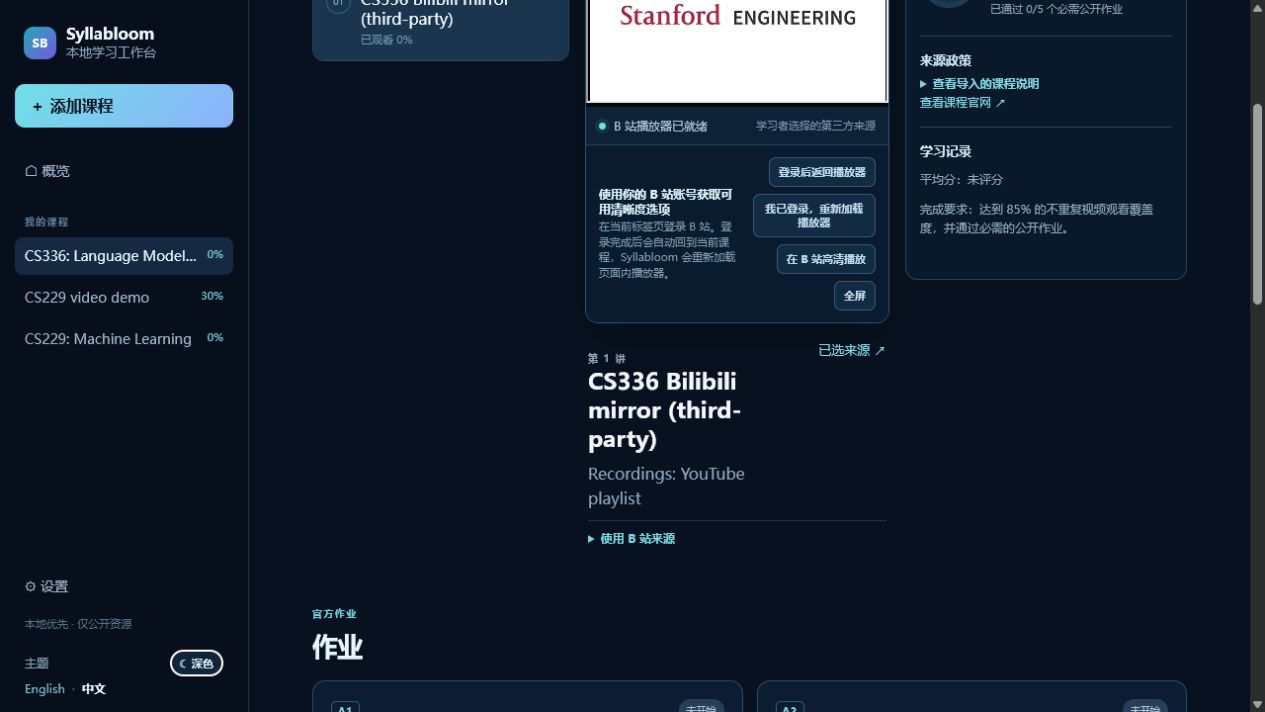
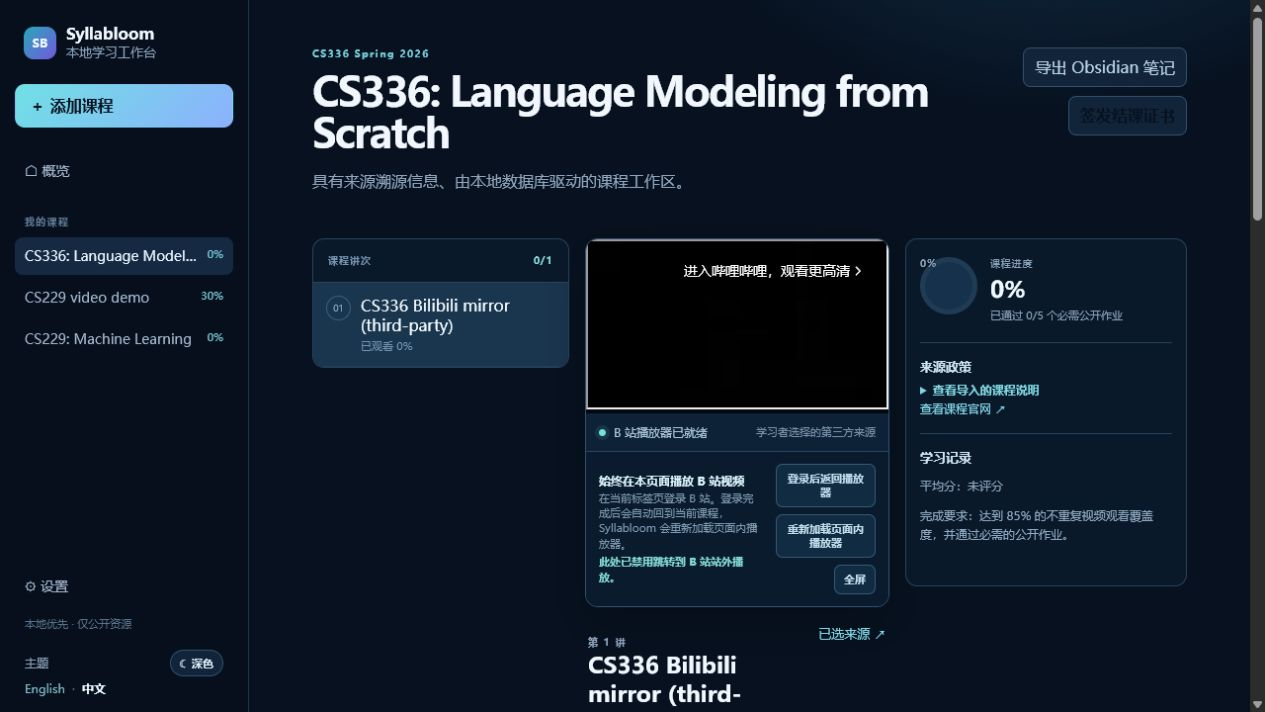
fix: keep Bilibili playback inside learning page

diff --git a/frontend/src/styles.css b/frontend/src/styles.css
@@ -85,7 +85,7 @@ a:hover { text-decoration: underline; }
 .lecture-context { display: flex; justify-content: space-between; gap: 20px; padding: 19px 3px 10px; }.lecture-context h2 { margin: 0; font-size: 23px; color: #eff8ff; }.lecture-context p { margin: 9px 0 0; color: #8da5bd; line-height: 1.55; }.lecture-context a { white-space: nowrap; font-size: 13px; }.player-source-note { margin-left: auto; color: #7993aa; font-size: 11px; line-height: 1.35; }.source-selector { margin: 0 3px 12px; padding: 10px 0 0; border-top: 1px solid rgba(49, 81, 111, .55); }.source-selector summary { cursor: pointer; color: #78d6df; font-size: 12px; font-weight: 700; }.source-selector p { margin: 8px 0; color: #8da5bd; font-size: 11px; line-height: 1.45; }.source-selector form { display: flex; gap: 8px; }.source-selector input { min-width: 0; flex: 1; border: 1px solid #365a75; border-radius: 8px; padding: 8px 10px; background: #081727; color: #e6f5ff; font-size: 12px; }.source-selector button { white-space: nowrap; padding: 8px 10px; font-size: 12px; }
 .course-inspector { padding: 14px; }.progress-card { display: flex; gap: 13px; padding: 4px 0 18px; border-bottom: 1px solid #28435d; }.progress-card span, .progress-card small { display: block; color: #8aa1b8; font-size: 10px; letter-spacing: .08em; }.progress-card strong { display: block; color: #eefaff; font-size: 23px; margin: 5px 0; }.progress-card small { font-size: 11px; letter-spacing: 0; line-height: 1.4; }.inspector-block { padding: 16px 0; border-bottom: 1px solid #28435d; }.inspector-block:last-child { border-bottom: 0; }.inspector-block h3 { margin: 0 0 8px; color: #cde4f3; font-size: 13px; }.inspector-block p { color: #8fa9c0; font-size: 12px; line-height: 1.55; }.inspector-block a { font-size: 12px; }
 .resource-section { margin-top: 50px; }.assignment-grid { display: grid; grid-template-columns: repeat(auto-fill, minmax(310px, 1fr)); gap: 14px; margin-top: 18px; }.assignment-card { border: 1px solid #2c4a66; border-radius: 13px; padding: 18px; background: rgba(15, 35, 57, .68); }.assignment-heading h4 { margin: 9px 0 0; color: #edf8ff; font-size: 17px; }.assignment-card > p { min-height: 37px; color: #95abc2; font-size: 13px; line-height: 1.5; }.assignment-status { border-radius: 999px; padding: 5px 8px; background: #293f57; color: #abc2d7; font-size: 10px; text-transform: capitalize; }.assignment-status.passed { background: #164b4a; color: #99f0d8; }.assignment-status.needs_revision { background: #573d34; color: #ffbf9a; }.button-row { display: flex; gap: 7px; flex-wrap: wrap; }.acknowledgement { display: flex; gap: 7px; margin: 15px 0 11px; color: #9bb2c8; font-size: 11px; line-height: 1.45; }.acknowledgement input { accent-color: #72dbe2; margin-top: 2px; }.compact { padding: 9px 11px; font-size: 13px; }.text-button { display: block; border: 0; background: transparent; padding-left: 0; margin-top: 8px; color: #7fd4df; font-size: 12px; }.grading-history { margin-top: 10px; padding-top: 8px; border-top: 1px solid #294863; color: #a2bdd0; font-size: 12px; }.protected { color: #ffc49e !important; }
-.bilibili-controls { display: flex; align-items: center; justify-content: space-between; gap: 14px; padding: 12px 13px; border-top: 1px solid #28435d; background: #0a1b2d; }.bilibili-controls > div:first-child { display: grid; gap: 3px; }.bilibili-controls strong { color: #d9f3fb; font-size: 12px; }.bilibili-controls span { color: #7e9ab1; font-size: 11px; line-height: 1.4; }.bilibili-control-actions { display: flex; flex-wrap: wrap; justify-content: flex-end; gap: 7px; }.bilibili-control-actions button { border: 1px solid #365a75; border-radius: 7px; padding: 7px 9px; background: #112b43; color: #c1deed; font-size: 11px; font-weight: 700; }.bilibili-control-actions button:hover { background: #1a3c58; }.bilibili-shell:fullscreen { display: grid; grid-template-rows: minmax(0, 1fr) auto auto; width: 100vw; height: 100vh; border: 0; border-radius: 0; background: #02070c; }.bilibili-shell:fullscreen .player-frame { height: 100%; max-height: none; aspect-ratio: auto; }
+.bilibili-controls { display: flex; align-items: center; justify-content: space-between; gap: 14px; padding: 12px 13px; border-top: 1px solid #28435d; background: #0a1b2d; }.bilibili-controls > div:first-child { display: grid; gap: 3px; }.bilibili-controls strong { color: #d9f3fb; font-size: 12px; }.bilibili-controls span { color: #7e9ab1; font-size: 11px; line-height: 1.4; }.bilibili-in-page-status { color: #84dbd5 !important; font-weight: 700; }.bilibili-control-actions { display: flex; flex-wrap: wrap; justify-content: flex-end; gap: 7px; }.bilibili-control-actions button { border: 1px solid #365a75; border-radius: 7px; padding: 7px 9px; background: #112b43; color: #c1deed; font-size: 11px; font-weight: 700; }.bilibili-control-actions button:hover { background: #1a3c58; }.bilibili-shell:fullscreen { display: grid; grid-template-rows: minmax(0, 1fr) auto auto; width: 100vw; height: 100vh; border: 0; border-radius: 0; background: #02070c; }.bilibili-shell:fullscreen .player-frame { height: 100%; max-height: none; aspect-ratio: auto; }
 
 .assignment-workspace-backdrop { position: fixed; z-index: 20; inset: 0; overflow: auto; padding: clamp(14px, 3vw, 42px); background: rgba(0, 8, 18, .8); backdrop-filter: blur(8px); }.assignment-workspace { width: min(1420px, 100%); min-height: calc(100vh - 84px); margin: auto; border: 1px solid #385875; border-radius: 18px; overflow: hidden; background: #0b1d30; box-shadow: 0 35px 100px rgba(0, 0, 0, .55); }.loading-workspace { min-height: 260px; display: grid; place-content: center; gap: 15px; color: #aac1d4; text-align: center; }.assignment-workspace-header { position: relative; display: flex; justify-content: space-between; gap: 20px; padding: 28px 34px 23px; border-bottom: 1px solid #294762; background: radial-gradient(circle at 92% -50%, #1a5472, transparent 29rem), #102a42; }.assignment-workspace-header h1 { margin: 0; color: #f0f9ff; font-size: clamp(25px, 3vw, 39px); letter-spacing: -.04em; }.workspace-title { display: flex; align-items: center; gap: 10px; }.assignment-workspace-header > div > p:last-child { margin: 10px 0 0; color: #86a4bd; font-size: 12px; }.workspace-close { position: static; flex: 0 0 auto; border: 1px solid #41647f; border-radius: 9px; width: 35px; height: 35px; background: rgba(8, 24, 40, .7); color: #c5deed; font-size: 25px; line-height: 1; }.workspace-error { margin: 18px 32px 0; }.assignment-workspace-grid { display: grid; grid-template-columns: minmax(250px, .72fr) minmax(430px, 1.28fr); min-height: 460px; }.assignment-brief { padding: 28px 30px; border-right: 1px solid #294762; background: rgba(7, 20, 33, .5); }.brief-section { padding: 0 0 23px; margin: 0 0 21px; border-bottom: 1px solid rgba(46, 75, 99, .72); }.brief-section:last-child { margin-bottom: 0; border-bottom: 0; }.brief-section h2, .brief-section h3, .answer-editor h2, .grading-sidebar h2 { margin: 0; color: #e5f5fc; letter-spacing: -.025em; }.brief-section h2 { font-size: 21px; }.brief-section h3 { font-size: 14px; }.assignment-description, .brief-section > p { color: #9db4c8; font-size: 13px; line-height: 1.65; white-space: pre-wrap; }.source-link { display: inline-block; margin: 11px 12px 0 0; font-size: 12px; font-weight: 700; }.assignment-resources { display: grid; gap: 8px; padding: 0; margin: 13px 0 0; list-style: none; }.assignment-resources li { display: flex; flex-wrap: wrap; align-items: baseline; justify-content: space-between; gap: 7px; padding: 10px; border: 1px solid #31516e; border-radius: 8px; background: #0d263d; }.assignment-resources a { min-width: 0; overflow: hidden; color: #d6f5fb; font-size: 12px; text-overflow: ellipsis; white-space: nowrap; }.assignment-resources span { color: #7ba6b6; font-size: 10px; }.policy-copy p { max-height: 180px; overflow: auto; }
 .answer-editor { display: flex; flex-direction: column; min-width: 0; padding: 28px 32px; background: #0e263c; }.answer-editor-heading { display: flex; justify-content: space-between; gap: 16px; align-items: flex-start; margin-bottom: 17px; }.answer-editor h2 { font-size: 23px; }.draft-state { flex: 0 0 auto; border-radius: 999px; padding: 5px 8px; background: #143f42; color: #91ead9; font-size: 10px; font-weight: 800; }.draft-state.changed { background: #523c30; color: #ffce9f; }.answer-editor textarea { flex: 1; min-height: 310px; width: 100%; resize: vertical; border: 1px solid #365b76; border-radius: 11px; padding: 17px; background: #071727; color: #e5f5fc; font-family: "SFMono-Regular", Consolas, "Liberation Mono", monospace; font-size: 13px; line-height: 1.7; outline: none; }.answer-editor textarea:focus { border-color: #70d5dc; box-shadow: 0 0 0 3px rgba(112, 213, 220, .12); }.answer-actions { display: flex; justify-content: flex-end; align-items: center; gap: 13px; margin-top: 12px; }.answer-actions .text-button { margin: 0; }.answer-note { margin: 12px 0 0; color: #7694aa; font-size: 11px; line-height: 1.45; }
@@ -179,6 +179,7 @@ a:hover { text-decoration: underline; }
 :root[data-theme="light"] .bilibili-controls { border-color: #c8d9e4; background: #edf5f9; }
 :root[data-theme="light"] .bilibili-controls strong { color: #294c64; }
 :root[data-theme="light"] .bilibili-controls span { color: #587489; }
+:root[data-theme="light"] .bilibili-in-page-status { color: #087779 !important; }
 :root[data-theme="light"] .bilibili-control-actions button { border-color: #b8cfdf; background: #f7fbfd; color: #2c5a73; }
 :root[data-theme="light"] .bilibili-control-actions button:hover { background: #e4f1f7; }
 :root[data-theme="light"] .assignment-workspace-backdrop { background: rgba(22, 45, 63, .46); }

diff --git a/frontend/src/lib/i18n.ts b/frontend/src/lib/i18n.ts
@@ -216,7 +216,6 @@ const messages: Record<Locale, Record<string, string>> = {
     "player.bilibiliLoginRefreshHint": "Finish sign-in in the Bilibili tab, then use Refresh player. Syllabloom never receives your Bilibili password or cookies.",
     "player.bilibiliLogin": "Sign in to Bilibili",
     "player.bilibiliRefresh": "Refresh player",
-    "player.bilibiliOpen": "Open HD on Bilibili",
     "player.fullscreen": "Full screen",
     "player.exitFullscreen": "Exit full screen",
   },
@@ -438,24 +437,27 @@ Object.assign(messages.zh, {
   "player.bilibiliLoginRefreshHint": "请在 B 站标签页完成登录后点击“刷新播放器”。Syllabloom 不会接收你的密码或 Cookie。",
   "player.bilibiliLogin": "登录 B 站",
   "player.bilibiliRefresh": "刷新播放器",
-  "player.bilibiliOpen": "在 B 站高清播放",
   "player.fullscreen": "全屏",
   "player.exitFullscreen": "退出全屏",
 });
 
 Object.assign(messages.en, {
-  "player.bilibiliHdHint": "Sign in with Bilibili in this tab. When sign-in finishes, Bilibili returns to this exact course and Syllabloom reloads the in-page player.",
+  "player.bilibiliHdTitle": "Keep Bilibili playback in this page",
+  "player.bilibiliHdHint": "Sign in with Bilibili in this tab. When sign-in finishes, Bilibili returns to this exact course and Syllabloom reloads the embedded player.",
   "player.bilibiliReturnDetected": "Bilibili sign-in return detected — the in-page player has been reloaded.",
   "player.bilibiliLogin": "Sign in and return to player",
-  "player.bilibiliRefresh": "I have signed in — reload player",
+  "player.bilibiliRefresh": "Reload in-page player",
+  "player.bilibiliInPageOnly": "External Bilibili playback is disabled here.",
   "player.fullscreenUnavailable": "Full screen was blocked by this browser",
 });
 
 Object.assign(messages.zh, {
+  "player.bilibiliHdTitle": "始终在本页面播放 B 站视频",
   "player.bilibiliHdHint": "在当前标签页登录 B 站。登录完成后会自动回到当前课程，Syllabloom 会重新加载页面内播放器。",
   "player.bilibiliReturnDetected": "已检测到 B 站登录回跳，页面内播放器已重新加载。",
   "player.bilibiliLogin": "登录后返回播放器",
-  "player.bilibiliRefresh": "我已登录，重新加载播放器",
+  "player.bilibiliRefresh": "重新加载页面内播放器",
+  "player.bilibiliInPageOnly": "此处已禁用跳转到 B 站站外播放。",
   "player.fullscreenUnavailable": "当前浏览器阻止了全屏",
 });
 

diff --git a/frontend/src/components/BilibiliPlayer.tsx b/frontend/src/components/BilibiliPlayer.tsx
@@ -10,7 +10,6 @@ export function BilibiliPlayer({ lecture, locale, courseId }: { lecture: Lecture
   const [returnedFromLogin, setReturnedFromLogin] = useState(false);
   const shellRef = useRef<HTMLElement>(null);
   const embedUrl = lecture.video?.embed_url;
-  const sourceUrl = lecture.source_url || `https://www.bilibili.com/video/${lecture.video?.external_id || ""}/`;
   const playerId = `bilibili-player-${lecture.id}`;
 
   const refreshPlayer = useCallback(() => {
@@ -84,6 +83,7 @@ export function BilibiliPlayer({ lecture, locale, courseId }: { lecture: Lecture
             title={lecture.title}
             allow="autoplay; fullscreen; picture-in-picture"
             allowFullScreen
+            sandbox="allow-scripts allow-same-origin allow-forms allow-presentation"
             referrerPolicy="strict-origin-when-cross-origin"
             onLoad={() => setFailed(false)}
             onError={() => setFailed(true)}
@@ -103,11 +103,11 @@ export function BilibiliPlayer({ lecture, locale, courseId }: { lecture: Lecture
         <div>
           <strong>{translate(locale, "player.bilibiliHdTitle")}</strong>
           <span aria-live="polite">{translate(locale, returnedFromLogin ? "player.bilibiliReturnDetected" : "player.bilibiliHdHint")}</span>
+          <span className="bilibili-in-page-status">{translate(locale, "player.bilibiliInPageOnly")}</span>
         </div>
         <div className="bilibili-control-actions">
           <button type="button" onClick={openLogin}>{translate(locale, "player.bilibiliLogin")}</button>
           <button type="button" onClick={refreshPlayer}>{translate(locale, "player.bilibiliRefresh")}</button>
-          <button type="button" onClick={() => window.open(sourceUrl, "_blank", "noopener,noreferrer")}>{translate(locale, "player.bilibiliOpen")}</button>
           <button type="button" onClick={() => void toggleFullscreen()}>{translate(locale, fullscreen ? "player.exitFullscreen" : "player.fullscreen")}</button>
         </div>
       </div>

diff --git a/docs/USER_GUIDE.zh-CN.md b/docs/USER_GUIDE.zh-CN.md
@@ -26,11 +26,11 @@ Syllabloom 的目标是让几个月后的学习记录仍然可理解：来源链
 
 ## 使用 B 站来源与自己的账号
 
-> **登录回跳：** 点击“登录后返回播放器”会在当前标签页打开 B 站官方登录页。登录成功后会自动回到同一课程和讲次，清除一次性回跳参数，并重新加载页面内播放器；无需再手动切换标签页。Syllabloom 不会读取密码、二维码或 Cookie。“我已登录，重新加载播放器”仅作为手动回退。
+> **登录回跳：** 点击“登录后返回播放器”会在当前标签页打开 B 站官方登录页。登录成功后会自动回到同一课程和讲次，清除一次性回跳参数，并重新加载页面内播放器；无需再手动切换标签页。Syllabloom 不会读取密码、二维码或 Cookie。“重新加载页面内播放器”仅作为手动回退。
 
 在某一讲下展开“使用 B 站来源”，粘贴直接包含 `BV...` 的视频链接。它会被清楚标记为学习者选择的第三方来源，不会被伪装成官方课程材料。
 
-嵌入播放器会请求 B 站的高质量模式，但最终可选清晰度仍由 B 站、视频本身、账号权限、网络状况和浏览器隐私设置决定。点击“登录 B 站”会打开 B 站自己的登录页面；Syllabloom 不会收到密码、二维码或 Cookie。登录完成后回到课程页点击“刷新播放器”，B 站可能会在 iframe 中提供已登录账号可用的选项。若浏览器阻止第三方 Cookie，或希望使用 B 站完整的一方播放器，请点击“在 B 站高清播放”。“全屏”会在不离开课程工作区的情况下放大播放器。
+嵌入播放器会请求 B 站的高质量模式，但最终可选清晰度仍由 B 站、视频本身、账号权限、网络状况和浏览器隐私设置决定。点击“登录后返回播放器”会在当前标签页打开 B 站自己的登录页面；Syllabloom 不会收到密码、二维码或 Cookie。登录成功后会回到同一课程并自动重载 iframe。“重新加载页面内播放器”只会重新加载官方 iframe；应用刻意不再提供跳到 B 站完整站外播放器的按钮。iframe 不包含弹窗或外层导航权限，因此其中的操作不能把 Syllabloom 外层页面带离课程工作区。若 B 站播放器本身针对嵌入播放显示“进入哔哩哔哩，观看更高清”的提示，该提示仍会显示，但不能带走外层课程页面。“全屏”会在浏览器允许时于页面内放大播放器。
 
 ## 导入 Stanford 课程
 

diff --git a/docs/USER_GUIDE.md b/docs/USER_GUIDE.md
@@ -28,7 +28,7 @@ Some videos cannot be embedded because the publisher disables embeds or removes 
 
 Expand **Use a Bilibili source** below a lecture and paste a direct `BV...` video URL. This creates a learner-selected, third-party source; it does not turn that video into official course material.
 
-The embedded Bilibili player requests Bilibili's high-quality mode, but the actual quality menu is controlled by Bilibili, the selected video, your account entitlement, network conditions, and browser privacy settings. Use **Sign in and return to player** to open Bilibili's own first-party login page in the current tab. Syllabloom never receives a password, QR code, or cookie. The login return target preserves the current course and lecture; after Bilibili signs you in, it returns to that page, removes the one-time handoff parameters from the URL, and reloads the iframe automatically. Use **I have signed in — reload player** only as a manual fallback. Use **Open HD on Bilibili** when your browser blocks third-party cookies or you want Bilibili's full first-party player. The in-page **Full screen** button expands the player without leaving the course workspace when the browser permits the Fullscreen API.
+The embedded Bilibili player requests Bilibili's high-quality mode, but the actual quality menu is controlled by Bilibili, the selected video, your account entitlement, network conditions, and browser privacy settings. Use **Sign in and return to player** to open Bilibili's own first-party login page in the current tab. Syllabloom never receives a password, QR code, or cookie. The login return target preserves the current course and lecture; after Bilibili signs you in, it returns to that page, removes the one-time handoff parameters from the URL, and reloads the iframe automatically. **Reload in-page player** only reloads the official iframe; there is deliberately no app button that opens the full Bilibili website. The iframe is sandboxed without popup or top-navigation permission, so an action inside it cannot navigate the surrounding Syllabloom page away. Bilibili's own player can still display its “watch in Bilibili” prompt when a quality is unavailable in an embed; that provider decision cannot be overridden, but it cannot take the surrounding course page away. The in-page **Full screen** button expands the player without leaving the course workspace when the browser permits the Fullscreen API.
 
 ## Import a Stanford course
 

diff --git a/README.md b/README.md
@@ -13,7 +13,7 @@ The name combines syllabus and bloom: a course plan becomes something you active
 ## What it does
 
 - Imports public YouTube videos and playlists through the official YouTube Data API.
-- Lets a learner attach a direct Bilibili BV video URL to any lecture and play it through Bilibili's own iframe player. **Sign in and return to player** opens Bilibili's first-party sign-in page in the current tab and returns to the same course and embedded player after sign-in; it then reloads the iframe automatically. The player also offers refresh, in-page fullscreen, and an "Open HD on Bilibili" fallback. Syllabloom never handles Bilibili passwords or cookies; available quality remains controlled by Bilibili, the video, the account, and browser cookie settings. Such sources are explicitly marked learner-selected and third-party; they are never presented as official course material.
+- Lets a learner attach a direct Bilibili BV video URL to any lecture and play it through Bilibili's own iframe player. **Sign in and return to player** opens Bilibili's first-party sign-in page in the current tab and returns to the same course and embedded player after sign-in; it then reloads the iframe automatically. The player offers refresh and in-page fullscreen, but no app-owned link opens the Bilibili website. The iframe is sandboxed so it cannot navigate the surrounding learning page or open a new tab. Syllabloom never handles Bilibili passwords or cookies; available quality remains controlled by Bilibili, the video, the account, and browser cookie settings. Bilibili's own in-player quality prompt can remain visible, but cannot take the outer course page away. Such sources are explicitly marked learner-selected and third-party; they are never presented as official course material.
 - Imports bounded, robots-aware public Stanford course pages without bypassing access controls.
 - Tracks unique watched video intervals through the YouTube IFrame Player API. Seeking does not count as watching.
 - Keeps course records, downloads, submission snapshots, and certificates local in SQLite and the local data directory.

diff --git a/docs/FEATURE_TOUR.md b/docs/FEATURE_TOUR.md
@@ -16,7 +16,7 @@ The dashboard is a local index of the courses you import. It keeps course progre
 
 The Bilibili video remains inside the course workspace. **Sign in and return to player** opens Bilibili's first-party sign-in page in the current tab. Its return target includes the current course and lecture, so after a successful Bilibili sign-in it returns to this exact course, scrolls back to the player, removes the one-time return parameters from the URL, and reloads the in-page iframe. Syllabloom never reads a Bilibili password, QR code, or cookie.
 
-The screenshot exercises that post-login return path locally; no Bilibili account was used to produce it. Bilibili still decides the quality choices that an account and a specific video can use. **Open HD on Bilibili** remains an explicit fallback when a browser blocks third-party cookies or Bilibili restricts the embedded player.
+The screenshot exercises that post-login return path locally; no Bilibili account was used to produce it. Bilibili still decides the quality choices that an account and a specific video can use. Syllabloom deliberately does not offer an external Bilibili-playback button: the iframe is sandboxed without popup or top-navigation permission, so it cannot take the surrounding learning page away from the course. If Bilibili's own player shows a “watch in Bilibili” prompt for a quality it declines to serve in an embed, that provider decision remains visible but cannot navigate the outer course page.
 
 ## 3. Write an assignment in the browser
 

diff --git a/CHANGELOG.md b/CHANGELOG.md
@@ -3,7 +3,8 @@
 ## Unreleased
 
 - Added an in-browser assignment workbench with local Markdown drafts, immutable submission versions, full feedback history, and detailed structured results from the learner-configured Codex/AI provider.
-- Added a Bilibili first-party sign-in return flow that restores the same course and automatically reloads the in-page iframe, plus manual refresh, in-page fullscreen, and HD-player fallback controls without collecting account credentials or cookies.
+- Added a Bilibili first-party sign-in return flow that restores the same course and automatically reloads the in-page iframe, plus manual refresh and in-page fullscreen controls without collecting account credentials or cookies.
+- Removed the external Bilibili playback control and sandboxed the official iframe so player actions cannot navigate the surrounding Syllabloom page or open a popup.
 - Added an annotated English/Chinese screenshot tour for the core local learning, Bilibili, assignment, and configuration workflows.
 - Added a persistent, system-aware Light/Dark theme switcher and compact expandable imported-policy/source panels.
 - Renamed the project to Syllabloom and added an English-first interface with a Chinese language link.

diff --git a/docs/FEATURE_TOUR.zh-CN.md b/docs/FEATURE_TOUR.zh-CN.md
@@ -16,7 +16,7 @@
 
 B 站视频会留在课程工作区内播放。点击 **登录后返回播放器** 会在当前标签页打开 B 站官方登录页；回跳地址会带上当前课程和讲次，因此登录成功后会回到同一门课程、滚动回播放器、清除一次性回跳参数，并自动重新加载页面内 iframe。Syllabloom 不会读取 B 站密码、二维码或 Cookie。
 
-此截图在本地模拟了登录完成后的回跳路径，并未使用任何 B 站账号。实际可选清晰度仍由 B 站、视频和账号决定。如果浏览器阻止第三方 Cookie，或 B 站限制 iframe 播放器，可主动使用 **在 B 站高清播放** 作为回退。
+此截图在本地模拟了登录完成后的回跳路径，并未使用任何 B 站账号。实际可选清晰度仍由 B 站、视频和账号决定。Syllabloom 刻意不再提供跳转到 B 站站外播放的按钮；iframe 不包含弹窗或外层导航权限，因此不能把外层学习页面带离课程。若 B 站播放器本身针对嵌入播放显示“进入哔哩哔哩，观看更高清”的提示，该提示仍会显示，但不能带走外层课程页面。
 
 ## 3. 在网页内完成作业
 

diff --git a/docs/TESTING.md b/docs/TESTING.md
@@ -26,6 +26,7 @@ The local UI was exercised at `http://127.0.0.1:8000` with the imported CS336 Bi
 - The Bilibili iframe remained inside the course page.
 - A simulated post-login return URL selected the same course and lecture, removed the one-time `bilibili_login` and `bilibili_lecture` parameters, scrolled to the embedded player, and re-mounted the iframe.
 - The language links retained the selected course but did not retain the one-time sign-in parameters.
+- The official Bilibili iframe is rendered with a sandbox that excludes popup and top-navigation permission; the UI exposes no app-owned external-playback button.
 - The in-page fullscreen control was exercised. The validation browser declined its Fullscreen API request, and the UI correctly reported that browser limitation without treating the embed itself as unavailable.
 - Eight credential-free local UI captures are committed in [the feature tour](FEATURE_TOUR.md).
 
